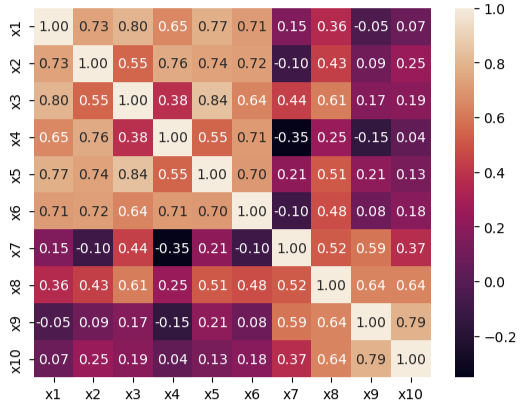
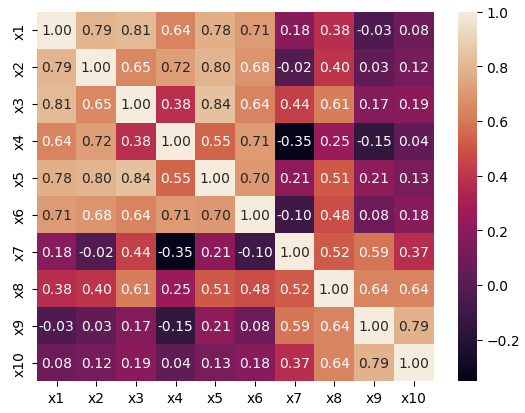
u

Changed region(s): [[0.0, 0.0, 0.8308, 0.9879], [0.8615, 0.0, 1.0, 0.9298]]

diff --git a/Anlasilir Ekonomi/Python Ile Veri Analizi/Notlar.md b/Anlasilir Ekonomi/Python Ile Veri Analizi/Notlar.md
@@ -8766,8 +8766,8 @@ import matplotlib.pyplot as plt
 
 data = pd.DataFrame(
     {
-        "x1": [1948, 2261, 1899, 1999, 2086, 1717, 1383, 1470, 1350, 1602, 1417, 1662, 1955, 1974, 2094, 3149, 1471, 1691, 2373], 
-        "x2": [4177, 3670, 4353, 3307, 4230, 2714, 2357, 3004, 2446, 4188, 3631, 4683, 4553, 3836, 4183, 6128, 4252, 3711, 4836],
+        "x1": [1948, 2261, 1989, 1999, 2086, 1717, 1383, 1470, 1350, 1602, 1417, 1662, 1955, 1974, 2094, 3149, 1471, 1691, 2373], 
+        "x2": [4177, 3670, 4353, 3307, 4230, 2714, 2357, 3004, 2446, 4188, 3631, 4683, 4553, 3836, 4183, 6128, 2952, 3711, 4836],
         "x3": [5496, 7797, 7392, 7061, 6564, 5919, 5053, 3951, 4280, 5910, 5145, 6384, 5679, 6021, 6733, 8151, 4151, 4200, 6704],
         "x4": [2922, 3327, 2837, 3439, 2987, 3394, 2958, 2691, 2397, 3619, 3282, 6376, 6141, 5646, 6720, 9048, 4975, 4962, 6563],
         "x5": [5713, 6934, 6275, 6641, 6675, 5605, 5144, 5116, 4722, 6869, 5226, 7313, 6068, 5876, 6044, 8384, 5149, 5359, 6197],
@@ -8789,40 +8789,41 @@ sabit=sm.add_constant(x)
 model=sm.OLS (y, sabit).fit()
 print(model.summary())
 
-# OLS Regression Results                            
+#                             OLS Regression Results                            
 # ==============================================================================
 # Dep. Variable:                      y   R-squared:                       0.988
-# Model:                            OLS   Adj. R-squared:                  0.974
-# Method:                 Least Squares   F-statistic:                     67.93
-# Date:                Mon, 25 Aug 2025   Prob (F-statistic):           1.24e-06
-# Time:                        17:14:49   Log-Likelihood:                -99.693
-# No. Observations:                  19   AIC:                             221.4
-# Df Residuals:                       8   BIC:                             231.8
+# Model:                            OLS   Adj. R-squared:                  0.972
+# Method:                 Least Squares   F-statistic:                     64.28
+# Date:                Tue, 26 Aug 2025   Prob (F-statistic):           1.54e-06
+# Time:                        10:45:17   Log-Likelihood:                -100.21
+# No. Observations:                  19   AIC:                             222.4
+# Df Residuals:                       8   BIC:                             232.8
 # Df Model:                          10                                         
 # Covariance Type:            nonrobust                                         
 # ==============================================================================
 #                  coef    std err          t      P>|t|      [0.025      0.975]
 # ------------------------------------------------------------------------------
-# const        803.4353    207.229      3.877      0.005     325.565    1281.306
-# x1             0.1775      0.107      1.653      0.137      -0.070       0.425
-# x2             0.0600      0.043      1.401      0.199      -0.039       0.159
-# x3            -0.0061      0.047     -0.130      0.900      -0.114       0.102
-# x4             0.0009      0.019      0.049      0.962      -0.042       0.044
-# x5             0.1086      0.056      1.934      0.089      -0.021       0.238
-# x6             0.1515      0.031      4.880      0.001       0.080       0.223
-# x7             0.0286      0.063      0.455      0.661      -0.116       0.173
-# x8             0.1886      0.062      3.042      0.016       0.046       0.332
-# x9             0.0898      0.074      1.209      0.261      -0.081       0.261
-# x10           -0.0291      0.078     -0.371      0.720      -0.210       0.152
+# const        782.3474    209.903      3.727      0.006     298.311    1266.384
+# x1             0.1861      0.112      1.659      0.136      -0.073       0.445
+# x2             0.0484      0.041      1.177      0.273      -0.046       0.143
+# x3            -0.0198      0.046     -0.436      0.674      -0.125       0.085
+# x4             0.0019      0.019      0.101      0.922      -0.042       0.046
+# x5             0.1196      0.056      2.145      0.064      -0.009       0.248
+# x6             0.1555      0.032      4.796      0.001       0.081       0.230
+# x7             0.0232      0.065      0.355      0.732      -0.127       0.174
+# x8             0.1948      0.062      3.152      0.014       0.052       0.337
+# x9             0.0799      0.075      1.060      0.320      -0.094       0.254
+# x10           -0.0041      0.077     -0.053      0.959      -0.181       0.173
 # ==============================================================================
-# Omnibus:                        0.909   Durbin-Watson:                   2.210
-# Prob(Omnibus):                  0.635   Jarque-Bera (JB):                0.196
-# Skew:                          -0.236   Prob(JB):                        0.906
-# Kurtosis:                       3.158   Cond. No.                     1.68e+05
+# Omnibus:                        2.909   Durbin-Watson:                   2.659
+# Prob(Omnibus):                  0.234   Jarque-Bera (JB):                1.201
+# Skew:                          -0.515   Prob(JB):                        0.549
+# Kurtosis:                       3.677   Cond. No.                     1.65e+05
 # ==============================================================================
+
 # Notes:
 # [1] Standard Errors assume that the covariance matrix of the errors is correctly specified.
-# [2] The condition number is large, 1.68e+05. This might indicate that there are
+# [2] The condition number is large, 1.65e+05. This might indicate that there are
 # strong multicollinearity or other numerical problems.
 ```
 
